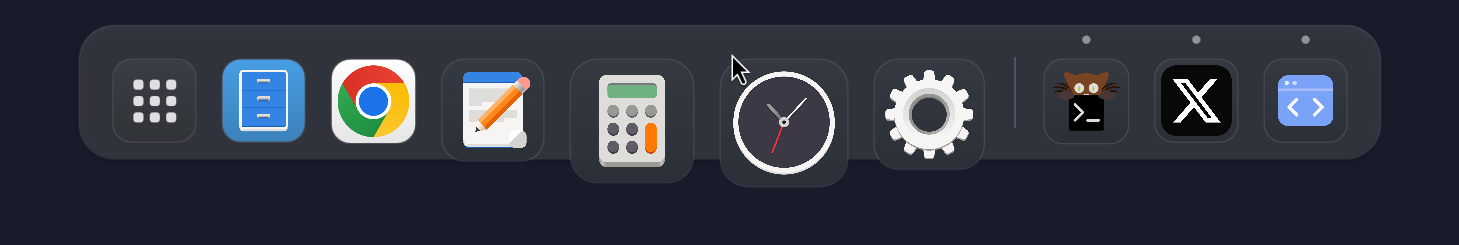
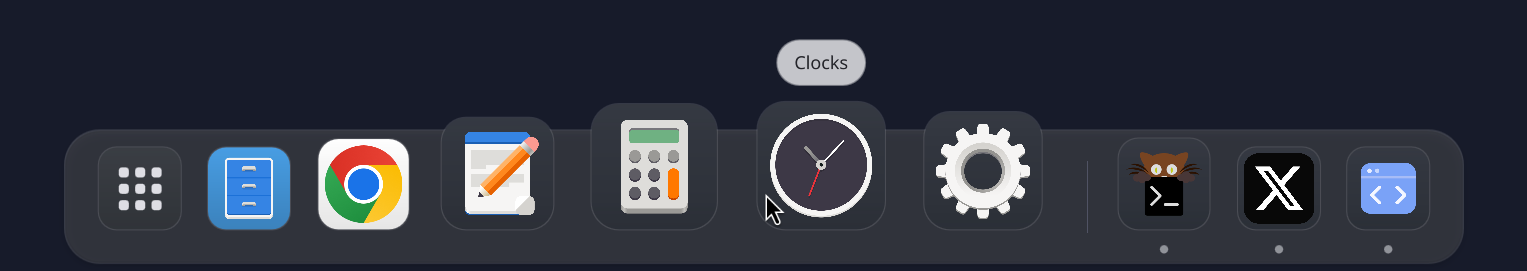
Show bottom dock placement in README screenshots

diff --git a/README.md b/README.md
@@ -3,7 +3,7 @@
 A macOS-inspired dock for **Hyprland**, built with
 [Quickshell](https://quickshell.org/), Qt Quick, and Python.
 
-![Dock with smooth icon magnification](docs/screenshots/dock.png)
+![Bottom-positioned Dock with smooth icon magnification](docs/screenshots/dock.png)
 
 ## Features
 
@@ -15,10 +15,11 @@ A macOS-inspired dock for **Hyprland**, built with
 - Searchable application grid with keyboard navigation.
 - Live icon-size and magnification settings, plus editable theme colors.
 
-![Dock appearance settings](docs/screenshots/settings.png)
+![Dock appearance settings with Bottom selected](docs/screenshots/settings.png)
 
 Dock appears on normal workspaces, tiled or floating. It has its own settings
 and does not require Omarchy, Waybar, or a particular desktop configuration.
+Bottom placement is the default, as shown above.
 
 ## Requirements
 
